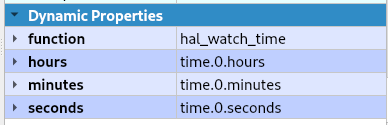
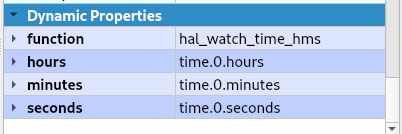
add hrs min watch label and change function names

diff --git a/flexgui/src/libflexgui/startup.py b/flexgui/src/libflexgui/startup.py
@@ -2919,9 +2919,11 @@ def setup_hal_io_state(parent):
 
 def setup_hal_watch(parent):
 	parent.hal_watch_bit = {}
+	parent.hal_watch_bit_verified = False
 	parent.hal_watch_int = {}
 	parent.hal_watch_float = {}
-	parent.hal_watch_time = {}
+	parent.hal_watch_time_hms = {}
+	parent.hal_watch_time_hm = {}
 
 	for label in parent.findChildren(QLabel):
 		if label.property('function') == 'hal_watch_bit':
@@ -2929,24 +2931,30 @@ def setup_hal_watch(parent):
 			pin = label.property('pin_name')
 			parent.hal_watch_bit[obj_name] = pin
 
-		if label.property('function') == 'hal_watch_int':
+		elif label.property('function') == 'hal_watch_int':
 			obj_name = label.objectName()
 			pin = label.property('pin_name')
 			parent.hal_watch_int[obj_name] = pin
 
-		if label.property('function') == 'hal_watch_float':
+		elif label.property('function') == 'hal_watch_float':
 			obj_name = label.objectName()
 			pin = label.property('pin_name')
 			p = label.property('precision')
 			p = p if p is not None else parent.default_precision
 			parent.hal_watch_float[obj_name] = [pin, p]
 
-		if label.property('function') == 'hal_watch_time':
+		elif label.property('function') == 'hal_watch_time_hm':
+			obj_name = label.objectName()
+			hr_pin = label.property('hours')
+			min_pin = label.property('minutes')
+			parent.hal_watch_time_hm[obj_name] = [hr_pin, min_pin]
+
+		elif label.property('function') == 'hal_watch_time_hms':
 			obj_name = label.objectName()
 			hr_pin = label.property('hours')
 			min_pin = label.property('minutes')
 			sec_pin = label.property('seconds')
-			parent.hal_watch_time[obj_name] = [hr_pin, min_pin, sec_pin]
+			parent.hal_watch_time_hms[obj_name] = [hr_pin, min_pin, sec_pin]
 
 def setup_tool_change(parent): # MANUAL TOOL CHANGE
 	if parent.manual_tool_change:

diff --git a/flexgui/src/libflexgui/status.py b/flexgui/src/libflexgui/status.py
@@ -564,7 +564,17 @@ def update(parent):
 		parent.current_tool_info = parent.status.tool_table[0]
 
 	# HAL Watch Pins FIXME this can crash emc if the hal pin does not exist
+	# if the hal pin does not exist remove from the dictionary and pop up a warning
+
 	for key, value in parent.hal_watch_bit.items():
+		if not parent.hal_watch_bit_verified:
+			try:
+				hal.get_value(value)
+			except Exception:
+				del parent.hal_watch_bit[key]
+				print(f'key {key} deleted')
+				break
+			parent.hal_watch_bit_verified = True
 		getattr(parent, key).setText(f'{hal.get_value(value)}')
 
 	for key, value in parent.hal_watch_int.items():
@@ -573,7 +583,12 @@ def update(parent):
 	for key, value in parent.hal_watch_float.items():
 		getattr(parent, key).setText(f'{hal.get_value(value[0]):.{value[1]}f}')
 
-	for key, value in parent.hal_watch_time.items():
+	for key, value in parent.hal_watch_time_hm.items():
+		hrs = hal.get_value(value[0])
+		mins = hal.get_value(value[1])
+		getattr(parent, key).setText(f'{hrs:02}:{mins:02}')
+
+	for key, value in parent.hal_watch_time_hms.items():
 		hrs = hal.get_value(value[0])
 		mins = hal.get_value(value[1])
 		secs = hal.get_value(value[2])

diff --git a/docs_flex/source/hal.rst b/docs_flex/source/hal.rst
@@ -474,12 +474,15 @@ The HAL direction is IN and the hal_type is u32 for a HAL Progress Bar.
 	String, function, hal_pin
 	String, pin_name, any unique name
 
-HAL Watch
----------
+HAL Watch Labels
+----------------
 
 You can watch the status of a HAL pin in your GUI by adding a QLabel with the
 following Dynamic Properties. You can watch Bit (True/False) pins, S32/U32
 integer pins, Float pins.
+
+HAL Watch Bool
+==============
 
 .. WARNING:: If the HAL pin does not exist LinuxCNC will crash!
 
@@ -495,6 +498,9 @@ integer pins, Float pins.
 .. image:: /images/hal-watch-bit.png
    :align: center
 
+HAL Watch Integer
+=================
+
 .. WARNING:: If the HAL pin does not exist LinuxCNC will crash!
 
 .. csv-table:: **HAL Watch Integer**
@@ -508,6 +514,9 @@ integer pins, Float pins.
 
 .. image:: /images/hal-watch-int.png
    :align: center
+
+HAL Watch Float
+===============
 
 .. WARNING:: If the HAL pin does not exist LinuxCNC will crash!
 
@@ -523,26 +532,43 @@ integer pins, Float pins.
 .. image:: /images/hal-watch-float.png
    :align: center
 
-HAL Time Label
---------------
+HAL Watch Time
+==============
 
 To have a label monitor the HAL time component add the following Dynamic
-Properties to a QLabel.
+Properties to a QLabel. You can have as many Time Watch labels as you want.
+There are two types of HAL Watch Time labels, the `hal_watch_time_hms` displays
+the hours, minutes and seconds and the `hal_watch_time_hm` displays the hours
+and minutes. You need to load the `time` component on your hal file and use the
+`start` pin to start and stop the `time` component.
 
 .. WARNING:: If the HAL pin does not exist LinuxCNC will crash!
 
-.. csv-table:: **HAL Watch Integer**
+.. csv-table:: **HAL Watch Hours, Minutes, Seconds**
    :width: 100%
    :align: center
    :widths: 33 33 33
 
 	**Property Type**, **Property Name**, **Pin Value**
-	String, function, hal_watch_time
+	String, function, hal_watch_time_hms
 	String, hours, time hours pin
 	String, minutes, time minutes pin
 	String, seconds, time seconds pin
 
 .. image:: /images/hal-watch-time-01.png
+   :align: center
+
+.. csv-table:: **HAL Watch Hours, Minutes**
+   :width: 100%
+   :align: center
+   :widths: 33 33 33
+
+	**Property Type**, **Property Name**, **Pin Value**
+	String, function, hal_watch_time_hm
+	String, hours, time hours pin
+	String, minutes, time minutes pin
+
+.. image:: /images/hal-watch-time-02.png
    :align: center
 
 Step by Step